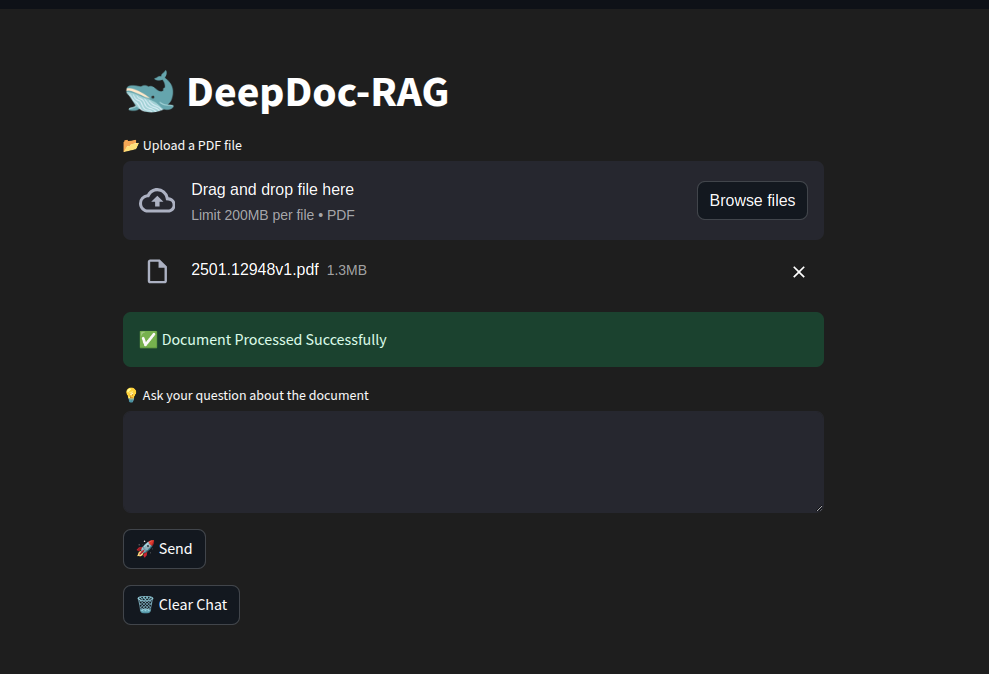
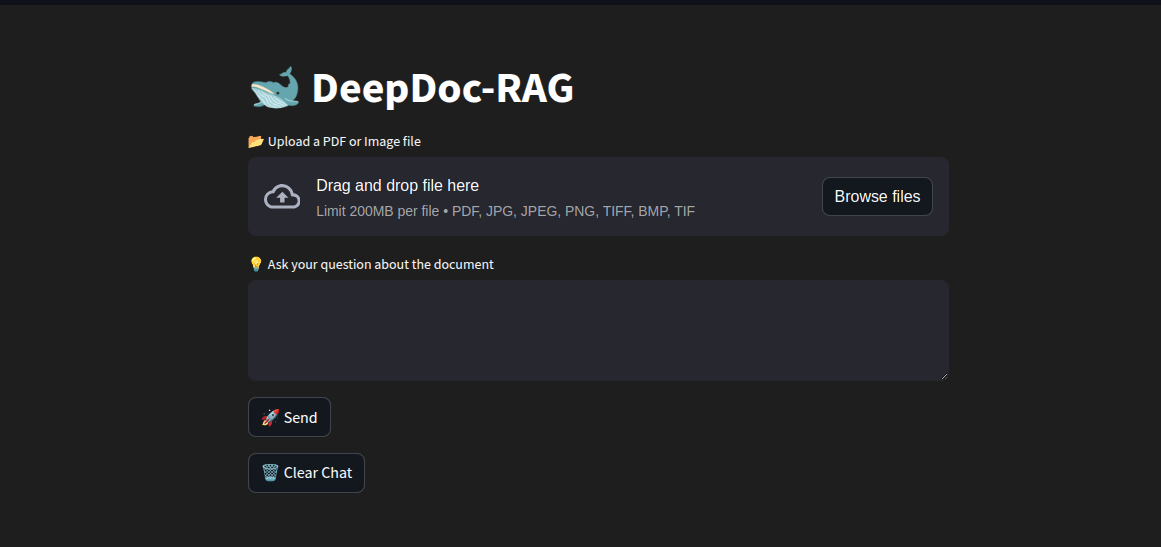
updated files and README

diff --git a/README.md b/README.md
@@ -1,158 +1,124 @@
-# 🐋 DeepDoc-RAG: Gen AI Document QA
+# DeepDoc-RAG: Document QA with Generative AI
 
-Welcome to **[DeepDoc-RAG](https://github.com/wolfsbane-14/DeepDoc-RAG)** – an AI-powered tool for interacting with PDF documents using natural language. DeepDoc-RAG processes PDFs into a vector database and delivers fast, context-aware responses via **DeepSeek-R1 Distill Llama 70B** using the **Groq API**.
+DeepDoc-RAG is a powerful document question-answering tool that leverages generative AI to provide natural language interactions with your PDF documents and images. The application uses DeepSeek-R1 Distill Llama 70B via the Groq API to deliver fast, context-aware responses.
 
----
+## Features
 
-## 🚀 Features
+- **Document Processing**: Upload and process PDFs and images (JPG, PNG, TIFF, BMP) with OCR support for scanned documents
+- **Vector Database**: Stores document embeddings using Chroma DB for efficient retrieval
+- **Conversational Interface**: Natural language question-answering with contextual awareness
+- **Reasoning Transparency**: Examine how the AI forms its responses with the "See How It Thinks" feature
+- **Modern UI**: Clean, responsive chat interface with smooth animations
 
-- ✅ **PDF Upload & Processing:** Quick and secure PDF uploads.
-- 💾 **Vector Database Storage:** Stores embeddings using **Chroma**.
-- 💬 **Conversational Q&A:** Clear, contextually accurate responses.
-- 🧠 **"Think" Section:** Understand the AI's reasoning.
-- 💡 **Modern Chat Interface:** Sleek chat UI with smooth animations.
-- ⚡ **Fast & Lightweight:** Powered by **DeepSeek-R1 Distill Llama 70B** via **Groq API**.
-
----
-
-## 🖼 Screenshots
+## Screenshots
 
 ![Upload PDF](img/img1.png)  
-*Upload and process PDF files easily.*
+*Document upload and processing interface*
 
 ![Ask Questions](img/img2.png)  
-*Ask questions and get instant responses.*
+*Conversational Q&A with your documents*
 
 ![AI Reasoning](img/img3.png)  
-*View the AI’s reasoning in the "Think" section.*
+*Inspect the AI's reasoning process*
 
----
+## Technology Stack
 
-## 📋 Tech Stack
+- **Frontend**: Streamlit
+- **Language Model**: DeepSeek-R1 Distill Llama 70B (via Groq API)
+- **Document Processing**: Unstructured for text extraction, Tesseract OCR for images/scanned docs
+- **Vector Storage**: Chroma for document embeddings
+- **Framework**: LangChain for retrieval-augmented generation
 
-- **Frontend:** Streamlit
-- **LLM:** DeepSeek-R1 Distill Llama 70B (via Groq API)
-- **PDF Processing:** Unstructured for text extraction
-- **Vector Storage:** Chroma for embeddings
-- **Backend:** LangChain
+## Installation
 
----
+### Prerequisites
+- Python 3.8+
+- Tesseract OCR (for image processing)
 
-## 💾 Installation
+### Setup
 
-### ✅ Prerequisites
-- Python 3.8 or higher
-
----
-
-### 📦 Install Dependencies
-
-1. Clone the Repository:
+1. Clone the repository:
 ```bash
 git clone https://github.com/wolfsbane-14/DeepDoc-RAG.git
 cd DeepDoc-RAG
 ```
 
-2. Create a Virtual Environment:
+2. Create and activate a virtual environment:
 ```bash
 python -m venv venv
-source venv/bin/activate  # On Windows: venv\\Scripts\\activate
+source venv/bin/activate  # On Windows: venv\Scripts\activate
 ```
 
-3. Install Packages:
+3. Install dependencies:
 ```bash
 pip install -r requirements.txt
 ```
 
-**`requirements.txt`** includes:
-```plaintext
-langchain-community==0.3.16
-langchain==0.3.16
-langchain-huggingface==0.1.2
-langchain-text-splitters==0.3.5
-unstructured==0.16.16
-unstructured[pdf]==0.16.16
-langchain-unstructured==0.1.6
-langchain-chroma==0.2.1
-langchain-groq==0.2.3
-streamlit==1.41.1
-```
+## Configuration
 
----
-
-## 🔑 Configuration
-
-1. Set Up API Key:
-Create `config.json` in the root directory:
+Create a `config.json` file in the project root:
 ```json
 {
-  "GROQ_API_KEY": "your_deepseek_api_key_here"
+  "GROQ_API_KEY": "your_groq_api_key_here"
 }
 ```
-Replace with your **Groq API key**.
 
----
+Alternatively, when deploying to Streamlit Cloud, add your GROQ_API_KEY to the Streamlit secrets.
 
-## 💻 Usage
+## Usage
 
-1. **Run the App:**
+1. Start the application:
 ```bash
 streamlit run main.py
 ```
 
-2. **Upload PDF:** Upload your PDF for processing.
+2. Upload a PDF or image document through the web interface
 
-3. **Chat with the Document:** Ask questions, and get context-aware answers.
+3. Ask questions about your document in natural language
 
-4. **View AI Reasoning:** Expand **"See How It Thinks"** to view the AI’s thought process.
+4. Expand the "See How It Thinks" section to understand response generation
 
-5. **Reset Chat:** Click **"Clear Chat"** to start over.
+5. Use "Clear Chat" to reset the conversation
 
----
+## How It Works
 
-## 📁 Project Structure
+DeepDoc-RAG employs a retrieval-augmented generation (RAG) approach:
+
+1. **Document Ingestion**:
+   - PDFs are processed using UnstructuredPDFLoader
+   - Images and scanned documents are processed with Tesseract OCR
+   - Text is split into manageable chunks using RecursiveCharacterTextSplitter
+
+2. **Vector Embedding**:
+   - Text chunks are converted to vector embeddings via HuggingFaceEmbeddings
+   - Embeddings are stored in a Chroma vector database
+
+3. **Retrieval Pipeline**:
+   - User queries trigger a semantic search against the vector database
+   - Most relevant document chunks are retrieved
+   - DeepSeek-R1 Distill Llama 70B generates comprehensive responses based on the retrieved context
+
+## Project Structure
 
 ```
-├── main.py                 # Streamlit frontend
-├── rag_utility.py          # Document processing and QA chain
-├── config.json             # Groq API key
-├── README.md               # Project documentation
-└── requirements.txt        # Dependencies
+├── main.py                # Streamlit interface and UI components
+├── rag_utility.py         # Core RAG functionality
+├── ocr_utility.py         # OCR processing for images and scanned PDFs
+├── config.json            # API key configuration (create this file)
+├── requirements.txt       # Python dependencies
+└── README.md              # Project documentation
 ```
 
----
+## Customization
 
-## 🧩 Customization
+- **Chunking Parameters**: Adjust `chunk_size` and `chunk_overlap` in `rag_utility.py`
+- **Model Settings**: Modify the `temperature` parameter in the LLM configuration
+- **UI Styling**: Customize the CSS in `main.py`
 
-- **Chat Interface:** Modify CSS in `main.py` for different styles.
-- **Document Processing:** Adjust `chunk_size` and `chunk_overlap` in `rag_utility.py`.
-- **LLM Configuration:** Change `temperature` in the `llm` object.
+## Troubleshooting
 
----
+- **OCR Issues**: Ensure Tesseract is properly installed and configured
+- **PDF Processing Errors**: Try different chunk sizes for complex documents
+- **Slow Performance**: Consider reducing chunk size for faster processing
 
-## 🧠 How It Works
-
-1. **Document Processing:**
-   - PDFs are processed using **UnstructuredPDFLoader**.
-   - Text is split into chunks using **RecursiveCharacterTextSplitter**.
-
-2. **Vector Embedding:**
-   - Text chunks are embedded using **HuggingFaceEmbeddings**.
-   - Embeddings are stored in **Chroma**.
-
-3. **Conversational Retrieval:**
-   - User queries are matched with document chunks using **Chroma**.
-   - **DeepSeek-R1 Distill Llama 70B** generates responses.
-
-4. **Chat Interface:**
-   - Streamlit displays messages in animated chat bubbles.
-
----
-
-## 🛠 Troubleshooting
-
-- **API Key Error:** Verify `config.json` and your **Groq API key**.
-- **Slow Response:** Adjust `chunk_size` or increase `chunk_overlap`.
-
----
 
